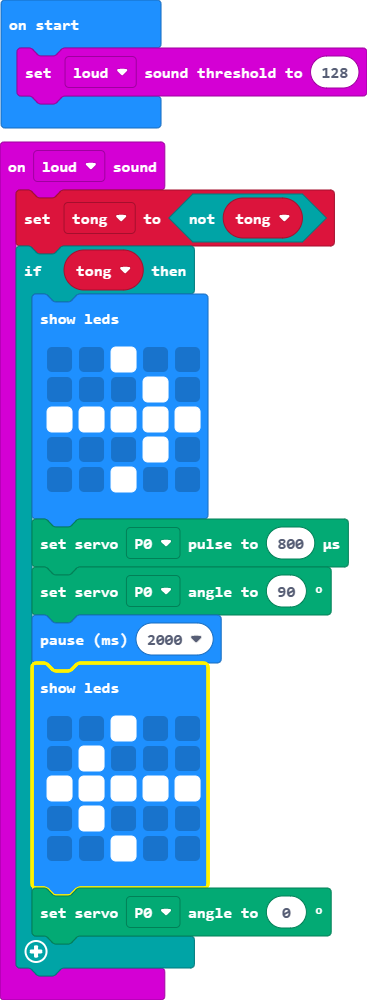
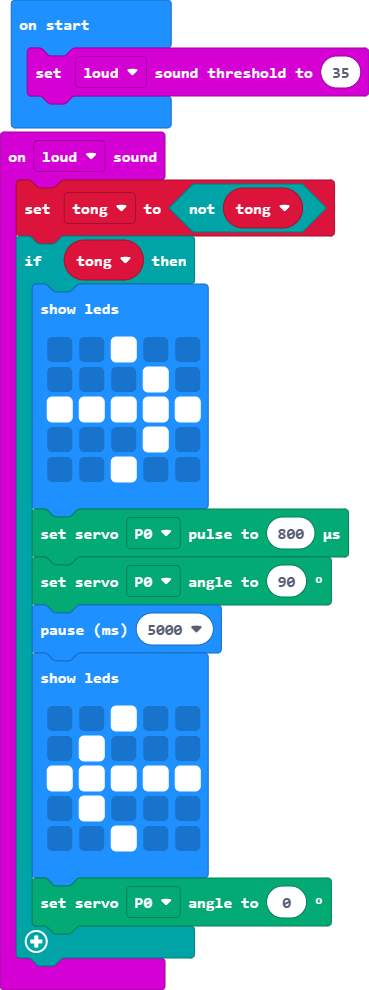
giy

diff --git a/main.ts b/main.ts
@@ -1,27 +1,25 @@
-input.onSound(DetectedSound.Loud, function on_sound_loud() {
-    
-    tong = !tong
+input.onSound(DetectedSound.Loud, function () {
+    tong = !(tong)
     if (tong) {
         basic.showLeds(`
             . . # . .
-                        . . . # .
-                        # # # # #
-                        . . . # .
-                        . . # . .
-        `)
+            . . . # .
+            # # # # #
+            . . . # .
+            . . # . .
+            `)
         servos.P0.setPulse(800)
         servos.P0.setAngle(90)
-        basic.pause(2000)
+        basic.pause(5000)
         basic.showLeds(`
             . . # . .
-                        . # . . .
-                        # # # # #
-                        . # . . .
-                        . . # . .
-        `)
+            . # . . .
+            # # # # #
+            . # . . .
+            . . # . .
+            `)
         servos.P0.setAngle(0)
     }
-    
 })
 let tong = false
-input.setSoundThreshold(SoundThreshold.Loud, 128)
+input.setSoundThreshold(SoundThreshold.Loud, 35)

diff --git a/main.py b/main.py
@@ -23,4 +23,4 @@ def on_sound_loud():
 input.on_sound(DetectedSound.LOUD, on_sound_loud)
 
 tong = False
-input.set_sound_threshold(SoundThreshold.LOUD, 128)
+input.set_sound_threshold(SoundThreshold.LOUD, 35)
